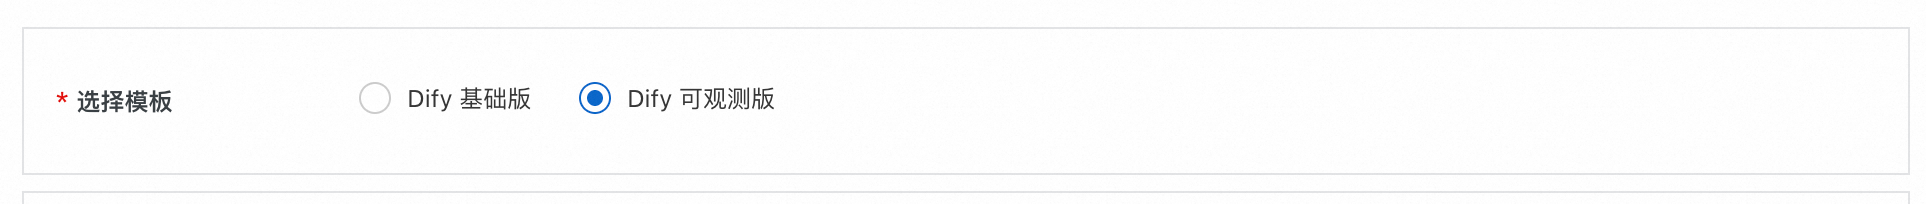
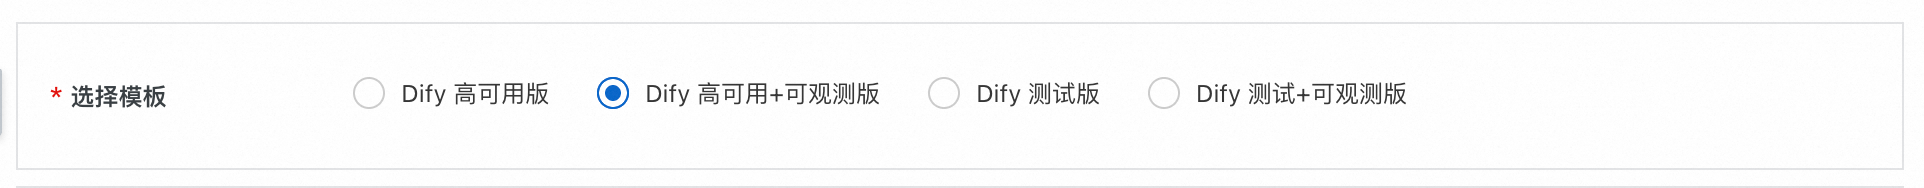
add dify simple doc

diff --git a/docs/dify-simple/index.md b/docs/dify-simple/index.md
@@ -6,7 +6,7 @@
 ## 概述
 
 Dify.AI 是一款 LLMOps 平台，帮助开发者更简单、更快速地构建 AI 应用。它的核心理念是通过可声明式的 YAML 文件定义 AI 应用的各个方面，包括 Prompt、上下文和插件等。Dify 提供了可视化的 Prompt 编排、运营、数据集管理等功能。这些功能使得开发者能够在数天内完成 AI 应用的开发，或将 LLM 快速集成到现有应用中，并进行持续运营和改进，创造一个真正有价值的 AI 应用。
-本方案提供了部署 Dify 的最佳实践，基于阿里云 Serverless 应用引擎（SAE）部署的 Dify 支持高可用、弹性伸缩、可观测、免运维等能力，集成了阿里云文件存储、数据库服务，可以实现 Dify 稳定、高性能部署，推荐用于生产环境。
+本方案提供了快速部署 Dify 的最佳实践，基于阿里云 Serverless 应用引擎（SAE）部署的 Dify 支持可观测、免运维等能力，数据库以单节点形式在 SAE 上部署，成本较低，不具备高可用性，推荐用于测试环境。
 
 ## 前提条件
 
@@ -19,55 +19,44 @@ Dify.AI 是一款 LLMOps 平台，帮助开发者更简单、更快速地构建 
 | AliyunVPCFullAccess             | 管理专有网络（VPC）的权限                   |
 | AliyunSLBFullAccess             | 管理负载均衡服务（SLB）的权限                 |
 | AliyunROSFullAccess             | 管理资源编排服务（ROS）的权限                 |
-| AliyunKvstoreFullAccess         | 管理云数据库 Tair（兼容 Redis）的权限         |
-| AliyunRDSFullAccess             | 管理云数据库服务（RDS）的权限                 |
-| AliyunGPDBFullAccess            | 管理 AnalyticDB for PostgreSQL 的权限 |
 | AliyunNASFullAccess            | 管理文件存储服务（NAS）的权限                 |
 | AliyunComputeNestUserFullAccess | 管理计算巢服务（ComputeNest）的用户侧权限       |
 
 
 ## 计费说明
 
-Dify 高可用版在计算巢部署的费用主要涉及：
+Dify 测试版在计算巢部署的费用主要涉及：
 - SAE CPU、内存规格与副本数
-- 云数据库的规格
 - NAS 中写入文件数据产生的实际存储容量
 - 可观测写入数据量（可选）
 
 ## 部署架构
-![image.png](https://img.alicdn.com/imgextra/i1/O1CN01skRMOT1LgjRRQhXdw_!!6000000001329-2-tps-1908-1430.png)
-
 本方案的技术架构包括以下基础设施和云服务：
 - 1个专有网络 VPC：为 SAE 应用、云数据库等云资源构建云上私有网络。
 - 2个交换机：将 SAE 应用、云数据库等资源连接在同一网络上，实现它们之间的通信，并提供基本的网络分段和隔离功能。
 - 1个安全组：用于限制专有网络 VPC 下的网络出入规则。
 - 1个负载均衡 CLB：为 Dify 提供负载均衡服务，将流量分发到不同的后端服务器来扩展应用系统的服务吞吐能力。
-- 1个云数据库 Tair（兼容 Redis）：为 Dify 提供缓存服务。
-- 1个云原生数据仓库 AnalyticDB PostgreSQL版：为 Dify 提供向量检索服务。
-- 1个云数据库 RDS PostgreSQL版：为 Dify 提供关系型数据库服务。
-- 1个文件存储 NAS：用于 Dify 应用文件存储。
+- 1个文件存储 NAS：用于 Dify 应用数据持久化存储。
 - 1个 NAT 网关：用于 Dify 应用访问公网服务。
 - 1个弹性公网IP：用于 Dify 应用访问公网服务。
 - Serverless应用引擎SAE：用于提供部署 Dify 应用的基础资源。
 
 ## 部署流程
-1. 选择模板，模板可选择"高可用版"或"高可用+可观测版"，可观测版集成了 api/sandbox/plugin-daemon 三个组件的可观测功能，通过探针自动埋点，提供性能分析、token分析、调用链视图等功能。
-   ![image.png](https://img.alicdn.com/imgextra/i2/O1CN014xNgpI1weZMCyMyNB_!!6000000006333-2-tps-1924-188.png)
+1. 选择模板，模板可选择"测试版"或"测试+可观测版"，可观测版集成了 api/sandbox/plugin-daemon 三个组件的可观测功能，通过探针自动埋点，提供性能分析、token分析、调用链视图等功能。
+   ![image.png](https://img.alicdn.com/imgextra/i1/O1CN01wwp80r25GbAaKpCBs_!!6000000007499-2-tps-1926-170.png)
    配置 SAE 命名空间、实例规格与副本数。
    ![image.png](https://img.alicdn.com/imgextra/i3/O1CN014hDAaj1fei0WhD8jZ_!!6000000004032-2-tps-1920-744.png)
    配置Postgres数据库
-   ![image.png](https://img.alicdn.com/imgextra/i2/O1CN01TlVpru1saD7g7C1wP_!!6000000005782-2-tps-2766-1628.png)
+   ![image.png](https://img.alicdn.com/imgextra/i1/O1CN01AtYoVV1nFzYrmNkYJ_!!6000000005061-2-tps-1924-482.png)
    配置Reids数据库
-   ![image.png](https://img.alicdn.com/imgextra/i2/O1CN01zbF45n1aBmv0PAV69_!!6000000003292-2-tps-2688-398.png)
-   配置向量数据库
-   ![image.png](https://img.alicdn.com/imgextra/i2/O1CN01UR5fHl1V0Gsg16wsD_!!6000000002590-2-tps-2776-684.png)
+   ![image.png](https://img.alicdn.com/imgextra/i2/O1CN01OSoOFq23OGZK79nn3_!!6000000007245-2-tps-1920-386.png)
    配置网络参数，可以选择新建 VPC, 也可以选择已有 VPC，推荐双可用区部署，提高服务可用性。
    ![image.png](https://img.alicdn.com/imgextra/i2/O1CN01XCIhHM1HV2s9L4ISM_!!6000000000762-2-tps-2722-1080.png)
    若选择已有 VPC，且该 VPC 未配置 NAT 网关，需要新建 NAT 网关以支持实例公网访问。
    ![image.png](https://img.alicdn.com/imgextra/i4/O1CN01cT9FBW1V83c6bZyhR_!!6000000002607-2-tps-2770-1144.png)
 2. 参数填写完成后可以看到对应询价明细（**注意：如果选择可观测版，会额外产生 ARMS 收费，这部分费用取决于使用过程中产生的数据量，不会计入询价**）。确认参数后点击**下一步：确认订单**。 确认订单完成后同意服务协议并点击**立即创建**进入部署阶段。
-   ![image.png](https://img.alicdn.com/imgextra/i3/O1CN01vR1uXc1Ex2EHT2H6J_!!6000000000417-2-tps-2992-1518.png)
-   ![image.png](https://img.alicdn.com/imgextra/i3/O1CN01jikKcW1xxB3vGVKDA_!!6000000006509-2-tps-3354-1808.png)
+   ![image.png](https://img.alicdn.com/imgextra/i1/O1CN01paHODP1fZfeXgrd4v_!!6000000004021-2-tps-2582-1528.png)
+   ![image.png](https://img.alicdn.com/imgextra/i4/O1CN01owFWg11hx9BZRgwZv_!!6000000004343-2-tps-2540-1520.png)
 3. 等待部署完成后就可以开始使用服务，进入服务实例详情获取 Dify 访问入口。
    ![image.png](https://img.alicdn.com/imgextra/i4/O1CN01vV8cHG1srcAmye0pw_!!6000000005820-2-tps-2992-1518.png)
 4. 注册账号。
@@ -90,8 +79,3 @@ Dify 高可用版在计算巢部署的费用主要涉及：
 ![image.png](https://img.alicdn.com/imgextra/i3/O1CN01vQPPg21jGDHuKjo06_!!6000000004520-2-tps-2992-1520.png)
 也可以通过 ARMS 控制台查看应用监控数据。
 ![image.png](https://img.alicdn.com/imgextra/i1/O1CN01IcD4l31tnK4pxTZQZ_!!6000000005946-2-tps-2992-1630.png)
-
-
-### 配置 Dify 服务的弹性伸缩
-如果希望实现弹性扩缩容， 可以参考以下文档。
-[配置弹性伸缩策略](https://help.aliyun.com/zh/sae/serverless-app-engine-upgrade/user-guide/configure-auto-scaling?scm=20140722.S_help%40%40%E6%96%87%E6%A1%A3%40%402773678._.ID_help%40%40%E6%96%87%E6%A1%A3%40%402773678-RL_%E5%BC%B9%E6%80%A7-LOC_doc%7EUND%7Eab-OR_ser-PAR1_2102029b17515227611745768d21ce-V_4-RE_new5-P0_1-P1_0&spm=a2c4g.11186623.help-search.i27)。
